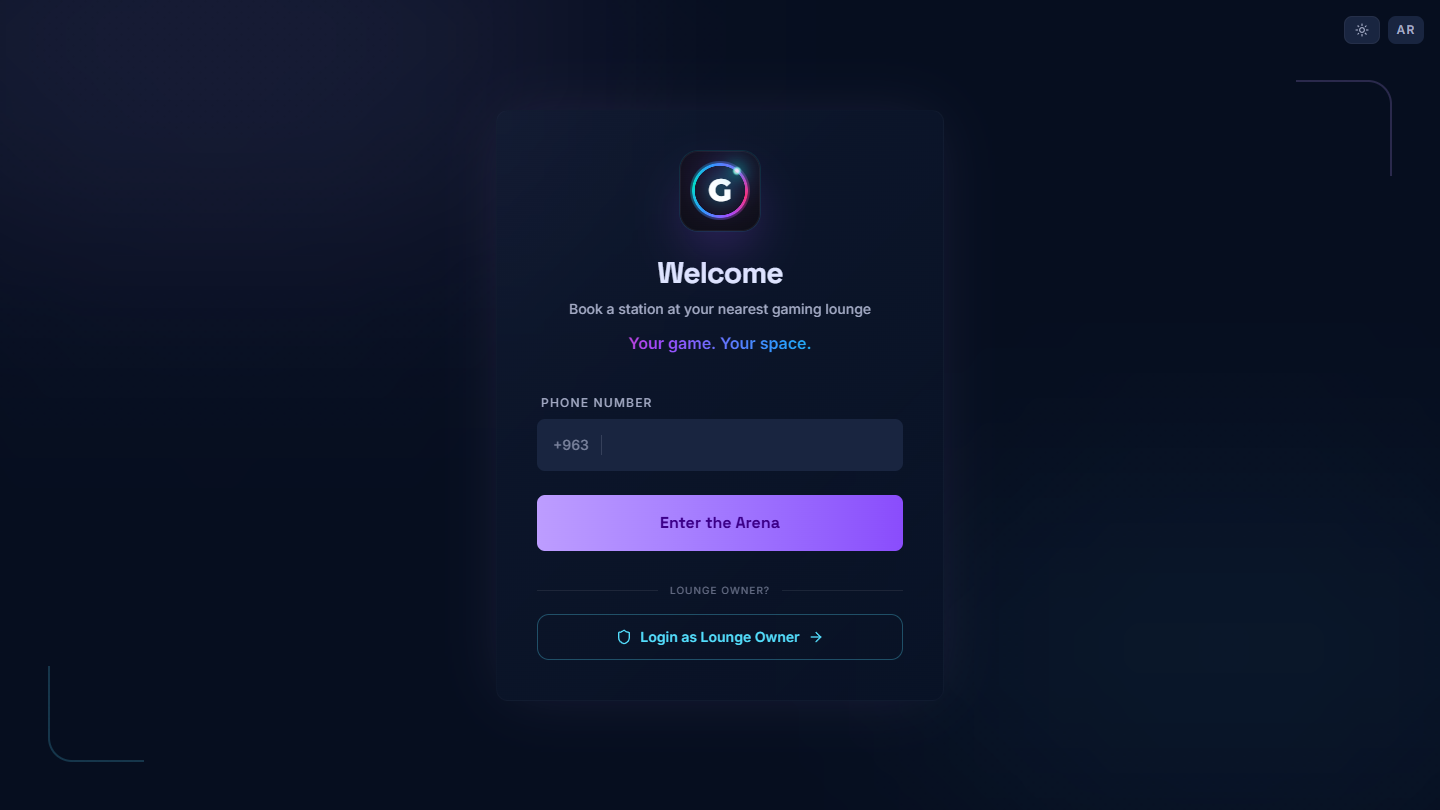
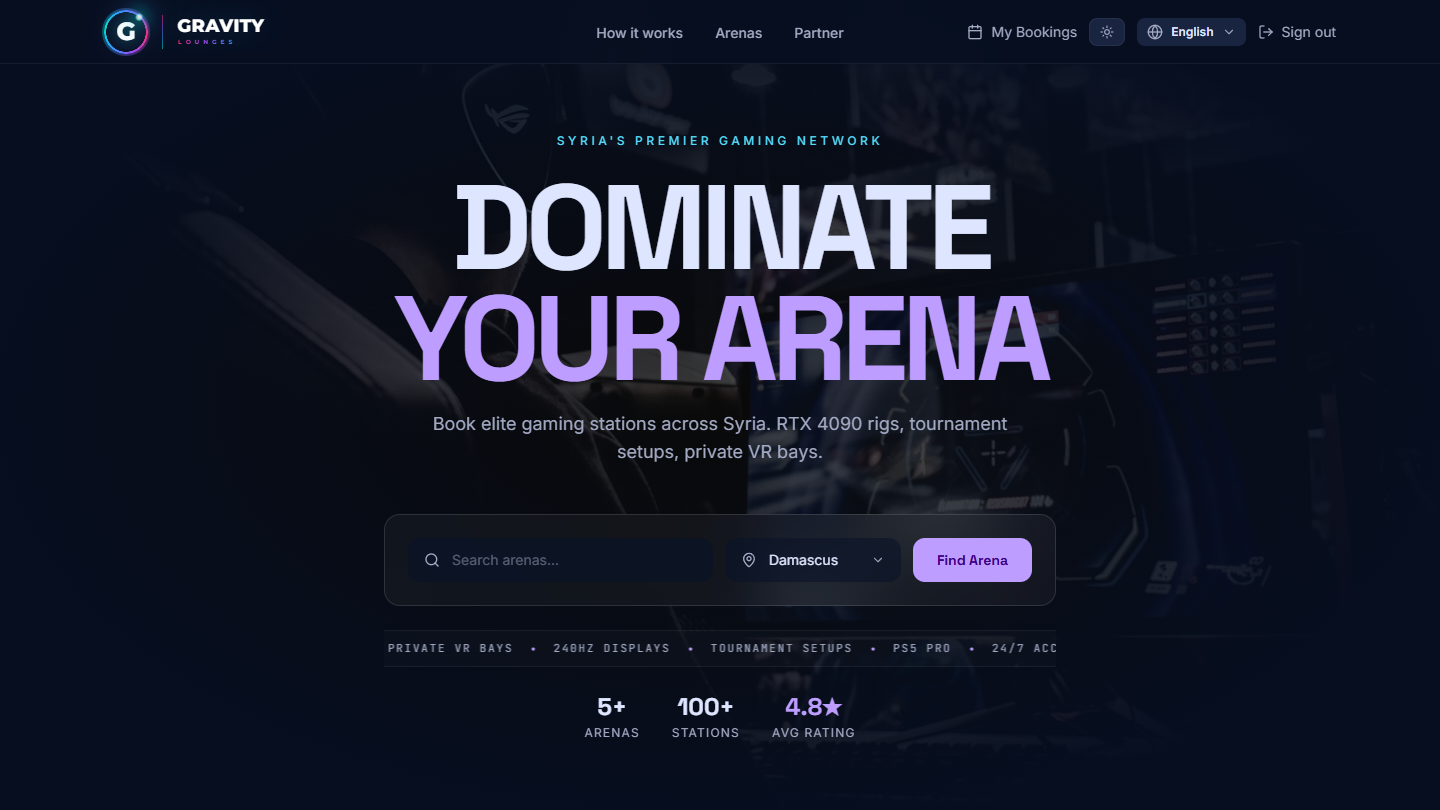
Add King's Table, fix card hover overlay and open at page top
- Add King's Table (Flutter + Django + TS dashboard) with card art from the
  app's own brand lockup, captured at 2x so it stays crisp.
- Replace the Nike product shot with the swoosh mark.
- Use the Gravity home screen rather than its login gate.
- Clamp the hover description and fade the badges out, so the text can no
  longer overflow the media box or collide with the "Featured" pill.
- Split card width (`wide`) from the badge (`featured`) so six projects tile
  the 6-column grid, and add a per-project `linkNote`.
- Disable browser scroll restoration so the site always opens at the top.

diff --git a/src/data/projects.js b/src/data/projects.js
@@ -13,14 +13,35 @@
  * @property {string}   image      Path in /public ('' → gradient placeholder).
  * @property {string}   demo       Live demo URL ('' hides the button).
  * @property {string}   github     Repository URL ('' hides the button).
+ * @property {string}  [linkNote]  Shown instead of links when demo and github are both empty.
  * @property {string}   year
  * @property {string}  [status]    Optional badge, e.g. 'In development'.
- * @property {boolean}  featured   Featured cards span half a row on desktop.
+ * @property {boolean}  wide       Spans half a row on desktop instead of a third.
+ *                                 Keep the number of wide cards even so rows fill.
+ * @property {boolean}  featured   Shows a "Featured" badge on the card artwork.
  * @property {string}   accent     Tailwind gradient classes behind the artwork.
  */
 
 /** @type {Project[]} */
 export const projectsData = [
+  {
+    id: 'kings-table',
+    title: "King's Table",
+    summary: 'Fine-dining delivery app with a loyalty engine and live order tracking.',
+    description:
+      'A Flutter delivery app in a gold-on-charcoal luxury theme, backed by a Django REST API and a separate TypeScript admin dashboard. Animated "build your dish" customiser, a points and rewards system, table reservations, per-dish nutrition, live order tracking over WebSockets with local notifications, and delivery mapping via geolocation — fully bilingual.',
+    tags: ['Flutter', 'Dart', 'Provider', 'Django', 'WebSockets', 'TypeScript', 'Maps'],
+    category: 'Full-Stack',
+    image: '/projects/kings-table.png',
+    linkNote: 'Private repo — walkthrough on request',
+    demo: '',
+    // App, backend and dashboard repos are all private on GitHub.
+    github: '',
+    year: '2026',
+    wide: true,
+    featured: true,
+    accent: 'from-amber-500/40 via-yellow-600/20 to-transparent',
+  },
   {
     id: 'fitmind',
     title: 'FitMind',
@@ -30,18 +51,20 @@ export const projectsData = [
     tags: ['Flutter', 'Dart', 'Cubit', 'Django', 'TensorFlow Lite', 'Firebase', 'Clean Architecture'],
     category: 'Full-Stack',
     image: '/projects/fitmind.png',
+    linkNote: 'Private repo — walkthrough on request',
     demo: '',
     github: '',
     year: '2025',
+    wide: true,
     featured: true,
     accent: 'from-emerald-500/40 via-teal-500/20 to-transparent',
   },
   {
     id: 'gravity',
     title: 'Gravity Lounges',
-    summary: 'Gaming lounge booking SaaS — owners manage stations, gamers reserve online.',
+    summary: 'Gaming lounge booking network — book elite stations across Syria.',
     description:
-      'A React + TypeScript platform where lounge owners lay out their floor and manage availability while gamers book sessions. Interactive station maps drawn with Konva, venue discovery on Leaflet, live booking updates over SignalR, and OIDC-backed authentication.',
+      'A React + TypeScript platform where lounge owners lay out their floor and manage availability while gamers search arenas by city and lock a slot. Interactive station maps drawn with Konva, venue discovery on Leaflet, live booking updates over SignalR, and OIDC-backed authentication — bilingual, with a light and dark theme.',
     tags: ['React', 'TypeScript', 'Vite', 'Tailwind CSS', 'SignalR', 'Konva', 'Leaflet', 'OIDC'],
     category: 'SaaS',
     image: '/projects/gravity.png',
@@ -50,6 +73,7 @@ export const projectsData = [
     github: '',
     year: '2026',
     status: 'In development',
+    wide: true,
     featured: true,
     accent: 'from-indigo-500/40 via-sky-500/20 to-transparent',
   },
@@ -62,9 +86,11 @@ export const projectsData = [
     tags: ['Flutter Web', 'Dart', 'Provider', 'go_router', 'Dio', 'REST API', 'Arabic / English'],
     category: 'Web App',
     image: '/projects/mazen-dadouch.png',
+    linkNote: 'Client work — details on request',
     demo: '',
     github: '',
     year: '2025',
+    wide: true,
     featured: false,
     accent: 'from-sky-500/40 via-blue-500/20 to-transparent',
   },
@@ -77,9 +103,11 @@ export const projectsData = [
     tags: ['Flutter Web', 'Dart', 'Provider', 'Google Maps', 'Dio', 'REST API', 'Arabic / English'],
     category: 'Web App',
     image: '/projects/zeera.png',
+    linkNote: 'Client work — details on request',
     demo: '',
     github: '',
     year: '2025',
+    wide: false,
     featured: false,
     accent: 'from-amber-500/40 via-yellow-500/20 to-transparent',
   },
@@ -92,9 +120,11 @@ export const projectsData = [
     tags: ['Flutter', 'Dart', 'Provider', 'UI Design'],
     category: 'Mobile',
     image: '/projects/nike.png',
+    linkNote: 'Practice build — code on request',
     demo: '',
     github: '',
     year: '2025',
+    wide: false,
     featured: false,
     accent: 'from-rose-500/40 via-pink-500/20 to-transparent',
   },

diff --git a/src/components/Projects.jsx b/src/components/Projects.jsx
@@ -20,7 +20,7 @@ export default function Projects() {
           <SectionHeading
             eyebrow="Selected work"
             title="Projects I've shipped"
-            description="Client platforms, a full-stack app with AI features, and a SaaS product in progress — web and mobile, most of them bilingual."
+            description="Two full-stack products with their own backends, client platforms, and a booking network in progress — web and mobile, most of them bilingual."
           />
 
           {/* Filter bar */}
@@ -92,9 +92,9 @@ function ProjectCard({ project, index }) {
 
   const showImage = project.image && !imageFailed
   const hasLinks = Boolean(project.demo || project.github)
-  // 6-column grid: featured cards take a half-row (3), the rest take a third (2),
-  // so 2 featured + 3 standard tile two complete rows with no dead space.
-  const span = project.featured ? 'lg:col-span-3' : 'lg:col-span-2'
+  // 6-column grid: `wide` cards take half a row, the rest take a third. Keep
+  // the count of wide cards even so every row fills (4 wide + 2 = 6/6/4).
+  const span = project.wide ? 'lg:col-span-3' : 'lg:col-span-2'
 
   return (
     <motion.article
@@ -142,9 +142,10 @@ function ProjectCard({ project, index }) {
           </div>
         )}
 
-        {/* Overlay revealed on hover */}
-        <div className="absolute inset-0 flex flex-col justify-end bg-gradient-to-t from-ink-950 via-ink-950/70 to-transparent p-5 opacity-0 transition-opacity duration-500 group-hover:opacity-100">
-          <p className="translate-y-3 text-sm leading-relaxed text-slate-300 transition-transform duration-500 group-hover:translate-y-0">
+        {/* Overlay revealed on hover. The description is clamped so it can
+            never outgrow the media box — standard cards only have ~200px. */}
+        <div className="absolute inset-0 z-20 flex flex-col justify-end overflow-hidden bg-gradient-to-t from-ink-950 via-ink-950/85 to-ink-950/60 p-5 opacity-0 transition-opacity duration-500 group-hover:opacity-100">
+          <p className="line-clamp-5 translate-y-3 text-xs leading-relaxed text-slate-300 transition-transform duration-500 group-hover:translate-y-0 sm:line-clamp-6 sm:text-sm">
             {project.description}
           </p>
           <div
@@ -177,7 +178,8 @@ function ProjectCard({ project, index }) {
           </div>
         </div>
 
-        <div className="absolute top-4 left-4 flex flex-wrap items-center gap-2">
+        {/* Badges step aside so they never collide with the hover overlay */}
+        <div className="absolute top-4 left-4 z-30 flex flex-wrap items-center gap-2 transition-opacity duration-300 group-hover:opacity-0">
           {project.featured && (
             <span className="inline-flex items-center gap-1.5 rounded-full border border-white/15 bg-ink-950/60 px-3 py-1 text-[11px] font-medium text-brand-200 backdrop-blur-md">
               <Star className="h-3 w-3 fill-brand-300 text-brand-300" />
@@ -249,7 +251,7 @@ function ProjectCard({ project, index }) {
               className="inline-flex items-center gap-1.5 text-sm font-medium text-slate-500 transition-colors hover:text-brand-300"
             >
               <Lock className="h-3.5 w-3.5" />
-              Client work — details on request
+              {project.linkNote ?? 'Details on request'}
             </a>
           )}
         </div>

diff --git a/src/main.jsx b/src/main.jsx
@@ -3,6 +3,16 @@ import { createRoot } from 'react-dom/client'
 import App from './App.jsx'
 import './index.css'
 
+// Browsers restore your previous scroll position on reload, which on a
+// one-page site drops you into the middle of it. Always open at the top —
+// unless the URL carries an anchor, which the visitor asked for on purpose.
+if ('scrollRestoration' in history) {
+  history.scrollRestoration = 'manual'
+}
+if (!window.location.hash) {
+  window.scrollTo(0, 0)
+}
+
 createRoot(document.getElementById('root')).render(
   <StrictMode>
     <App />

diff --git a/README.md b/README.md
@@ -62,7 +62,12 @@ Everything content-related is in `src/data/` — you shouldn't need to touch a c
 `image`, `demo`, `github`, `year`, `featured`, and an optional `status` badge.
 
 - `category` values feed the filter bar automatically — add a new one and a new tab appears.
-- `featured: true` makes a card span half a row; the layout tiles cleanly with **2 featured + 3 standard**.
+- `wide: true` makes a card span half a row instead of a third. The grid is 6 columns, so wide
+  cards take 3 and the rest take 2 — **keep the number of wide cards even** and every row fills.
+  Currently 4 wide + 2 standard, which tiles as 6 / 6 / 4.
+- `featured: true` only adds the "Featured" badge — it's independent of `wide`.
+- `linkNote` is the line shown when a project has neither a demo nor a repo
+  (e.g. "Client work — details on request").
 - `image` points into `/public/projects`. Gravity uses a screenshot of the live site; the rest use
   card art generated from each project's own logo. Swap in real screenshots any time — and if a
   path 404s, the card silently falls back to a gradient placeholder with the project name.
